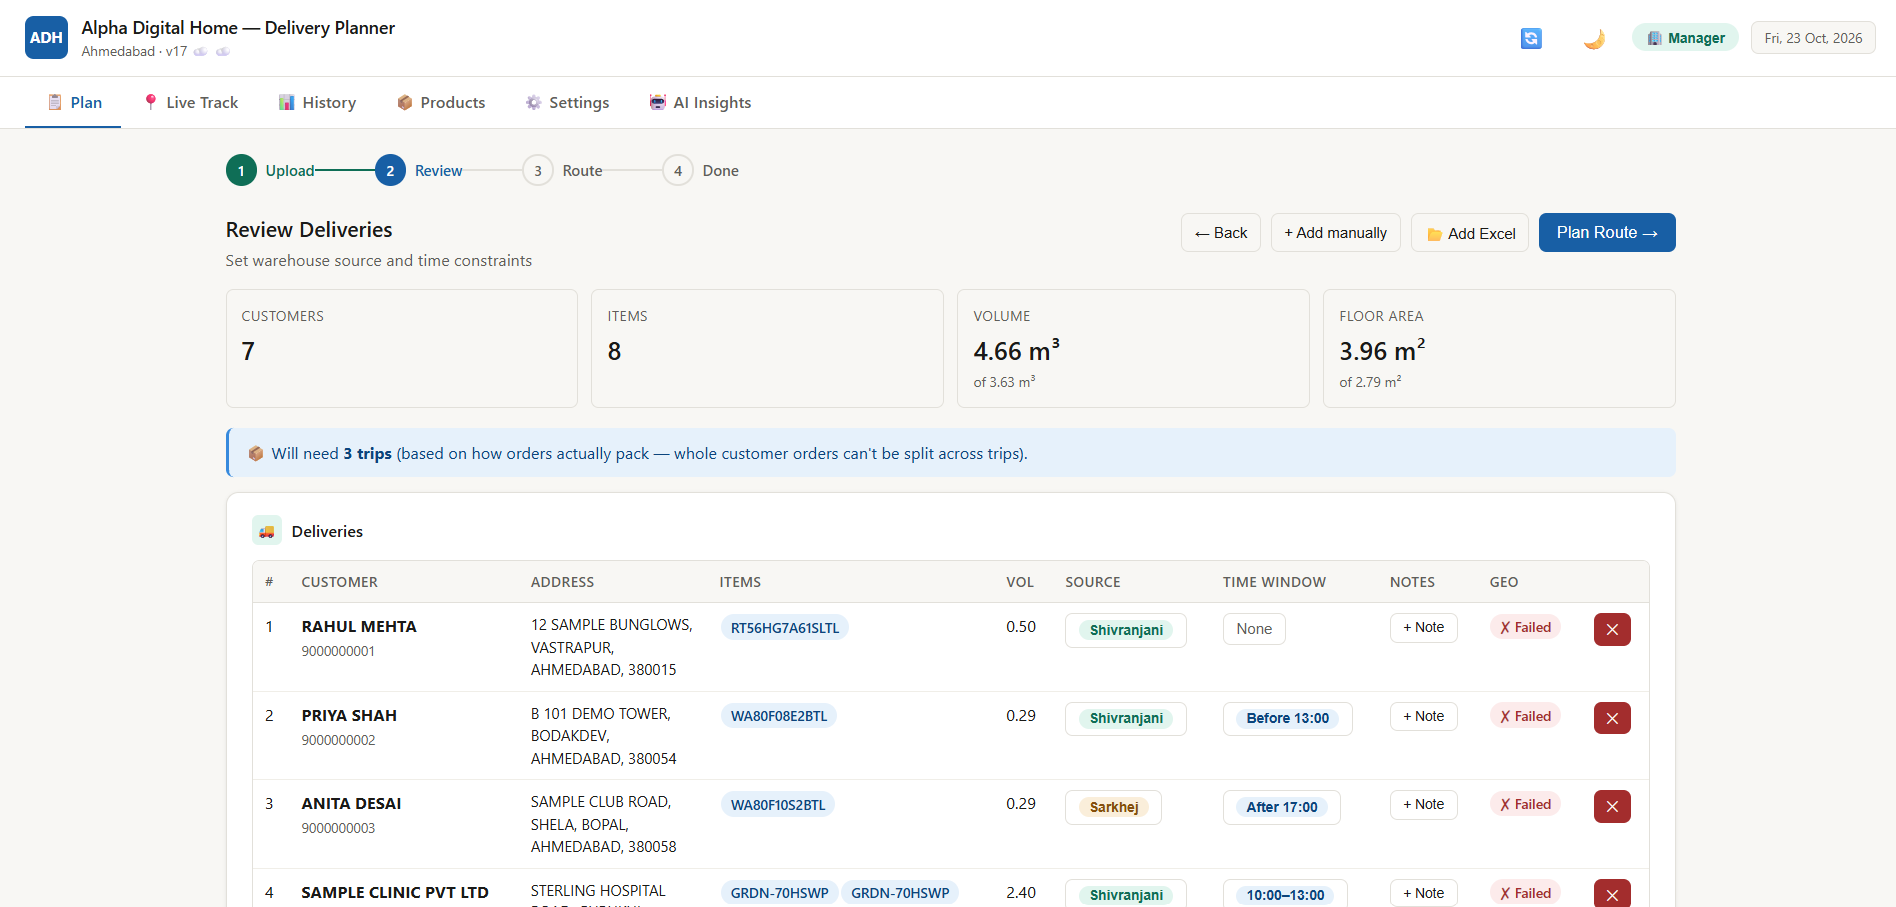
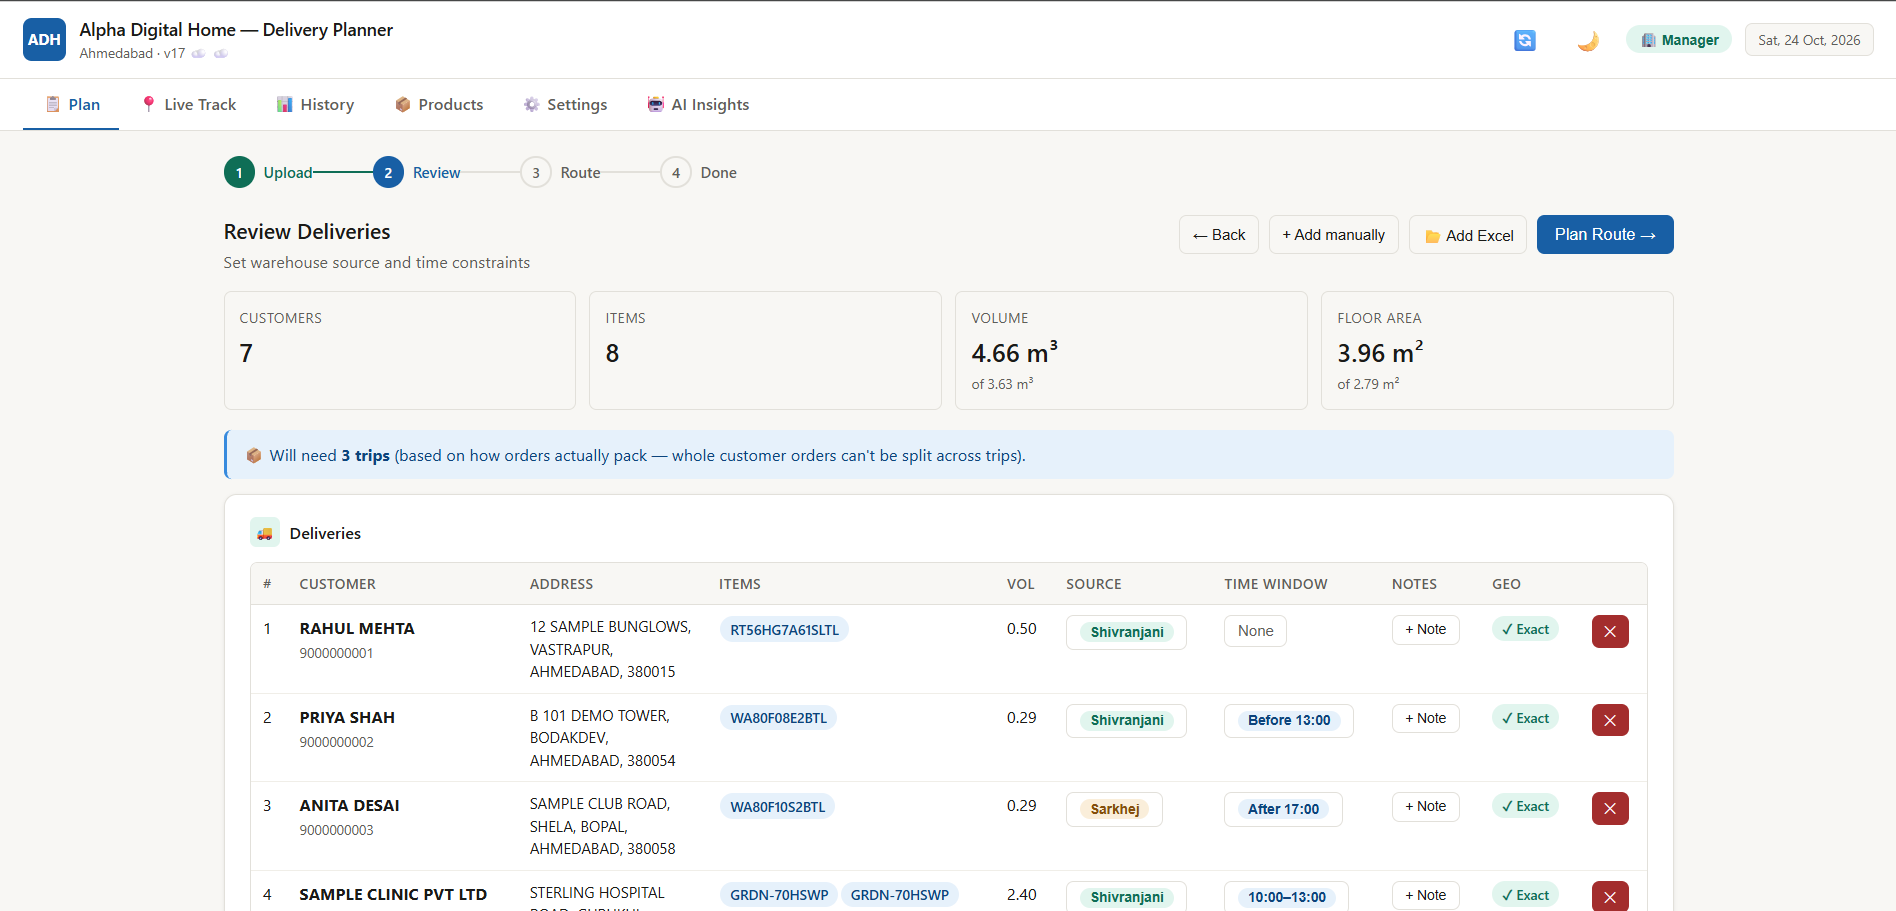
Show sample data as geocoded

diff --git a/index.html b/index.html
@@ -1686,13 +1686,13 @@ function defaultProducts(){return[
 // ── SAMPLE DATA ──
 function loadSampleData(){
   S.deliveries=[
-    {customer:'RAHUL MEHTA',phone:'9000000001',address:'12 SAMPLE BUNGLOWS, VASTRAPUR, AHMEDABAD, 380015',area:'VASTRAPUR',lat:23.0461,lng:72.5293,geocoded:true,invoice:'ADH/187/26-27',source:'shivranjani',timeConstraint:null,items:[{model:'RT56HG7A61SLTL',cat:'REFRIGERATOR',vol:0.50,floorNeeded:true,missing:false}]},
-    {customer:'PRIYA SHAH',phone:'9000000002',address:'B 101 DEMO TOWER, BODAKDEV, AHMEDABAD, 380054',area:'BODAKDEV',lat:23.0428,lng:72.5089,geocoded:true,invoice:'ADH/186/26-27',source:'shivranjani',timeConstraint:{type:'before',t1:'13:00'},items:[{model:'WA80F08E2BTL',cat:'WASHING MACHINE',vol:0.29,floorNeeded:true,missing:false}]},
-    {customer:'ANITA DESAI',phone:'9000000003',address:'SAMPLE CLUB ROAD, SHELA, BOPAL, AHMEDABAD, 380058',area:'SHELA',lat:23.0107,lng:72.4633,geocoded:true,invoice:'ADH/0188/26-27',source:'sarkhej',timeConstraint:{type:'after',t1:'17:00'},items:[{model:'WA80F10S2BTL',cat:'WASHING MACHINE',vol:0.29,floorNeeded:true,missing:false}]},
-    {customer:'SAMPLE CLINIC PVT LTD',phone:'9000000004',address:'STERLING HOSPITAL ROAD, GURUKUL, AHMEDABAD, 380052',area:'GURUKUL',lat:23.0658,lng:72.5427,geocoded:true,invoice:'B2B/033/26-27',source:'shivranjani',timeConstraint:{type:'between',t1:'10:00',t2:'13:00'},items:[{model:'GRDN-70HSWP',cat:'REFRIGERATOR',vol:1.20,floorNeeded:true,missing:false},{model:'GRDN-70HSWP',cat:'REFRIGERATOR',vol:1.20,floorNeeded:true,missing:false}]},
-    {customer:'NEHA PATEL',phone:'9000000005',address:'5 EXAMPLE SOCIETY, VASTRAPUR, AHMEDABAD, 380015',area:'VASTRAPUR',lat:23.0452,lng:72.5249,geocoded:true,invoice:'ADH/0189/26-27',source:'shivranjani',timeConstraint:null,items:[{model:'WA40F08D1CTL',cat:'WASHING MACHINE',vol:0.29,floorNeeded:true,missing:false}]},
-    {customer:'VIKRAM SINGH',phone:'9000000006',address:'C 202 TEST AVENUE, SATELLITE, AHMEDABAD, 380015',area:'SATELLITE',lat:23.0295,lng:72.5182,geocoded:true,invoice:'ADH/',source:'shivranjani',timeConstraint:null,items:[{model:'UA50U8100FULXL',cat:'TELEVISION',vol:0.09,floorNeeded:true,missing:false}]},
-    {customer:'KIRAN TRIVEDI',phone:'9000000007',address:'40 DEMO SOC, BODAKDEV, AHMEDABAD, 380054',area:'BODAKDEV',lat:23.0490,lng:72.5060,geocoded:true,invoice:'ADH/0193/26-27',source:'sarkhej',timeConstraint:null,items:[{model:'RT80H51C2FHL',cat:'REFRIGERATOR',vol:0.80,floorNeeded:true,missing:false}]},
+    {customer:'RAHUL MEHTA',phone:'9000000001',address:'12 SAMPLE BUNGLOWS, VASTRAPUR, AHMEDABAD, 380015',area:'VASTRAPUR',lat:23.0461,lng:72.5293,   geocoded:true,geocodeQuality:'exact',invoice:'ADH/187/26-27',source:'shivranjani',timeConstraint:null,items:[{model:'RT56HG7A61SLTL',cat:'REFRIGERATOR',vol:0.50,floorNeeded:true,missing:false}]},
+    {customer:'PRIYA SHAH',phone:'9000000002',address:'B 101 DEMO TOWER, BODAKDEV, AHMEDABAD, 380054',area:'BODAKDEV',lat:23.0428,lng:72.5089,   geocoded:true,geocodeQuality:'exact',invoice:'ADH/186/26-27',source:'shivranjani',timeConstraint:{type:'before',t1:'13:00'},items:[{model:'WA80F08E2BTL',cat:'WASHING MACHINE',vol:0.29,floorNeeded:true,missing:false}]},
+    {customer:'ANITA DESAI',phone:'9000000003',address:'SAMPLE CLUB ROAD, SHELA, BOPAL, AHMEDABAD, 380058',area:'SHELA',lat:23.0107,lng:72.4633,   geocoded:true,geocodeQuality:'exact',invoice:'ADH/0188/26-27',source:'sarkhej',timeConstraint:{type:'after',t1:'17:00'},items:[{model:'WA80F10S2BTL',cat:'WASHING MACHINE',vol:0.29,floorNeeded:true,missing:false}]},
+    {customer:'SAMPLE CLINIC PVT LTD',phone:'9000000004',address:'STERLING HOSPITAL ROAD, GURUKUL, AHMEDABAD, 380052',area:'GURUKUL',lat:23.0658,lng:72.5427,   geocoded:true,geocodeQuality:'exact',invoice:'B2B/033/26-27',source:'shivranjani',timeConstraint:{type:'between',t1:'10:00',t2:'13:00'},items:[{model:'GRDN-70HSWP',cat:'REFRIGERATOR',vol:1.20,floorNeeded:true,missing:false},{model:'GRDN-70HSWP',cat:'REFRIGERATOR',vol:1.20,floorNeeded:true,missing:false}]},
+    {customer:'NEHA PATEL',phone:'9000000005',address:'5 EXAMPLE SOCIETY, VASTRAPUR, AHMEDABAD, 380015',area:'VASTRAPUR',lat:23.0452,lng:72.5249,   geocoded:true,geocodeQuality:'exact',invoice:'ADH/0189/26-27',source:'shivranjani',timeConstraint:null,items:[{model:'WA40F08D1CTL',cat:'WASHING MACHINE',vol:0.29,floorNeeded:true,missing:false}]},
+    {customer:'VIKRAM SINGH',phone:'9000000006',address:'C 202 TEST AVENUE, SATELLITE, AHMEDABAD, 380015',area:'SATELLITE',lat:23.0295,lng:72.5182,   geocoded:true,geocodeQuality:'exact',invoice:'ADH/',source:'shivranjani',timeConstraint:null,items:[{model:'UA50U8100FULXL',cat:'TELEVISION',vol:0.09,floorNeeded:true,missing:false}]},
+    {customer:'KIRAN TRIVEDI',phone:'9000000007',address:'40 DEMO SOC, BODAKDEV, AHMEDABAD, 380054',area:'BODAKDEV',lat:23.0490,lng:72.5060,   geocoded:true,geocodeQuality:'exact',invoice:'ADH/0193/26-27',source:'sarkhej',timeConstraint:null,items:[{model:'RT80H51C2FHL',cat:'REFRIGERATOR',vol:0.80,floorNeeded:true,missing:false}]},
   ];
   showReview();
 }
